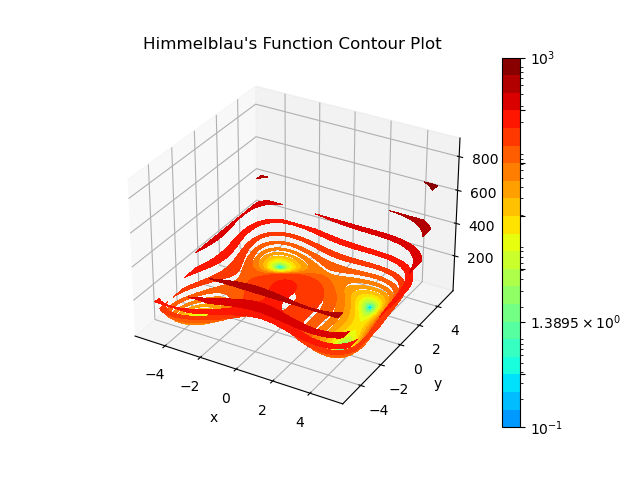
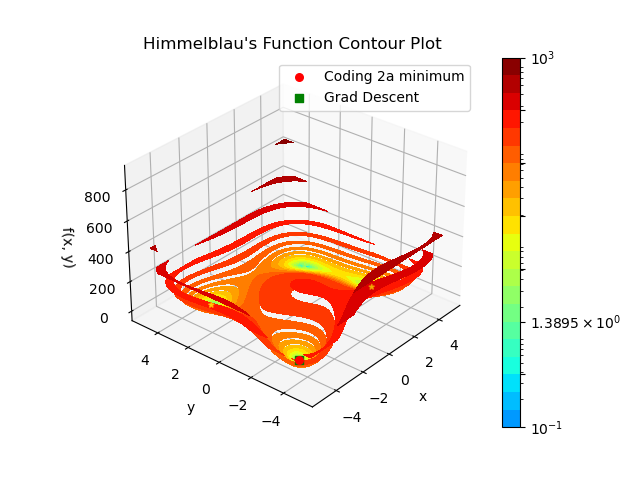
hw6 final writeup. May need to adjust to fminbound

diff --git a/Homework6/HW6Writeup.py b/Homework6/HW6Writeup.py
@@ -1,3 +1,4 @@
+import time
 from matplotlib import cm
 import numpy as np
 import scipy.optimize as so
@@ -6,7 +7,75 @@ from mpl_toolkits.mplot3d import Axes3D
 import matplotlib as mpl
 
 
+def problem2a():
+    x0 = np.array([[-3,
+                   -2]]).T
+    A3 = [0, 0, 0]
+    A3[0], A3[1] = so.fmin(f_single, x0=x0, disp=False, full_output=False)
+    A3[2] = f(A3[0], A3[1])
+    A3 = np.reshape(A3, (3, 1))
+    return A3
+
+
+def problem2d():
+    iter = -1
+    p = np.array([[-3], [-2]])  # Choose an initial guess
+    # print('p: ', p)
+    grad = fgrad(p)
+    while((iter < 5000) & (np.linalg.norm(grad, np.inf) > 1e-8)):
+        grad = fgrad(p)  # Find which direction to go
+        # print("iter:", str(iter))
+        # print("norm:", str(np.linalg.norm(grad, np.inf)))
+        # print("grad:", grad)
+        phi = lambda t: p - t * grad  # Define the path
+        f_of_phi = lambda t: f_single(phi(t))  # Create a function of
+        # "heights along path"
+        tmin = so.fminbound(f_of_phi, 0, 1)  # Find time it takes
+        # to reach min height
+        p = phi(tmin)  # Find the point on the path and update your guess
+        iter += 1
+    p_ans = [p[0], p[1], f(p[0], p[1])]
+    return np.reshape(p_ans, (3, 1))
+
+
+def problem2d_altered(tstep, max_iter=12000):
+    init_time = time.time()
+    iter = -1
+    p = np.array([[2], [3]])  # Choose an initial guess
+    inf_tol = 1e-9
+    grad = fgrad(p)
+    while((iter < max_iter) & (np.linalg.norm(grad, np.inf) > inf_tol)):
+        grad = fgrad(p)  # Find which direction to go
+        # print("iter:", str(iter))
+        # print("norm:", str(np.linalg.norm(grad, np.inf)))
+        # print("grad:", grad)
+        p = p - tstep * grad
+        iter += 1
+    total_time = time.time() - init_time
+    return iter, total_time, (iter != max_iter)
+
+
+def get_iters(tstep):
+    return problem2d_altered(tstep)[0]
+
+
+def fgrad(xy):
+    x = xy[0][0]
+    y = xy[1][0]
+    # print("x:", x)
+    # print("y:", y)
+    x_grad = 4 * (x**3) - (42 * x) + (4 * x * y) + (2 * (y**2)) - 14
+    y_grad = 4 * (y**3) - (26 * y) + (4 * x * y) + (2 * (x**2)) - 22
+    return np.array([[x_grad], [y_grad]])
+
+
 def f(x, y):
+    return (x**2 + y - 11)**2 + (x + y**2 - 7)**2
+
+
+def f_single(xy):
+    x = xy[0]
+    y = xy[1]
     return (x**2 + y - 11)**2 + (x + y**2 - 7)**2
 
 
@@ -42,7 +111,59 @@ def problem1():
     ax.set_ylabel("y")
     ax.set_zlabel("f(x, y)")
     plt.title("Himmelblau's Function Contour Plot")
+    guesses = np.array([[-4, 4], [-4, -4], [3, 2], [4, -2]])
+    x_min = np.empty(len(guesses))
+    y_min = np.empty(len(guesses))
+    z_min = np.empty(len(guesses))
+    for guess_num in range(len(guesses)):
+        x_min[guess_num], y_min[guess_num] = so.fmin(
+            f_single, x0=guesses[guess_num], disp=False)
+        z_min[guess_num] = f(x_min[guess_num], y_min[guess_num])
+    # the star located near -4, 4 can be hard to see, but it is there
+    # sometimes the renderer will either miss it or put it underneath the contour plot
+    ax.scatter(x_min, y_min, z_min, c='yellow', marker='*', s=15)
+    fmin_ans = problem2a()
+    ax.scatter(*fmin_ans, c="red", marker="o", facecolors='none',
+               edgecolors='r', s=30, label="Coding 2a minimum")
+    grad_desc_ans = problem2d()
+    ax.scatter(
+        *grad_desc_ans, c="green", marker="s", facecolors='none',
+        edgecolors='g', s=30, label="Grad Descent")
+    plt.legend()
+    ax.view_init(30, 220)
     plt.savefig("HW6Writeup_1b_contour.png")
 
 
+def problem2():
+    init_time = time.time()
+    t0_full = so.fmin(f_single, x0=[2, 3], xtol=1e-9,
+                      maxiter=12000, disp=False, full_output=True)
+    final_time = time.time() - init_time
+    t0 = [t0_full[2], final_time, (t0_full[2] == 12000)]
+
+    t1 = problem2d_altered(.01)
+    t2 = problem2d_altered(.02)
+    t3 = problem2d_altered(.025)
+    print(
+        "fmin iters: " + str(t0[0]) +
+        '; fmin time: ' + str(t0[1]) +
+        '; fmin converged?: ' + str(t0[2]))
+    print(
+        ".01  iters: " + str(t1[0]) +
+        '; .01  time: ' + str(t1[1]) +
+        '; .01  converged?: ' + str(t1[2]))
+    print(
+        ".02  iters: " + str(t2[0]) +
+        '; .02  time: ' + str(t2[1]) +
+        '; .02  converged?: ' + str(t2[2]))
+    print(".025 iters: " + str(t3[0]), '; .025 time:' +
+          str(t3[1]) + '; .025 converged?: ' + str(t3[2]))
+
+
+def problem2_opt():
+    return so.fmin(get_iters, x0=.02, full_output=True, disp=False)
+
+
 problem1()
+problem2()
+print(problem2_opt())
